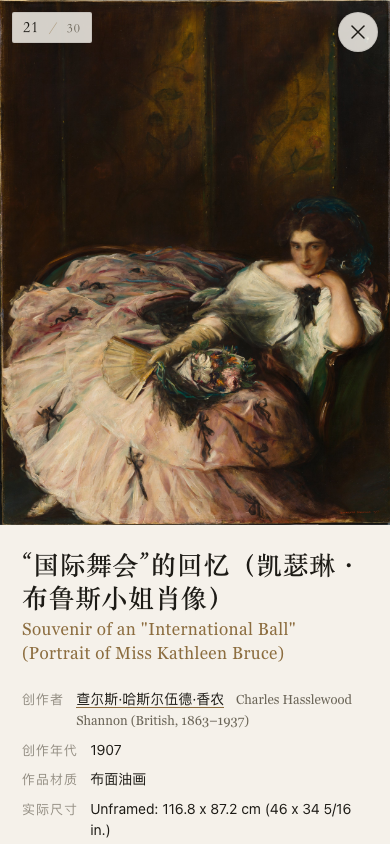
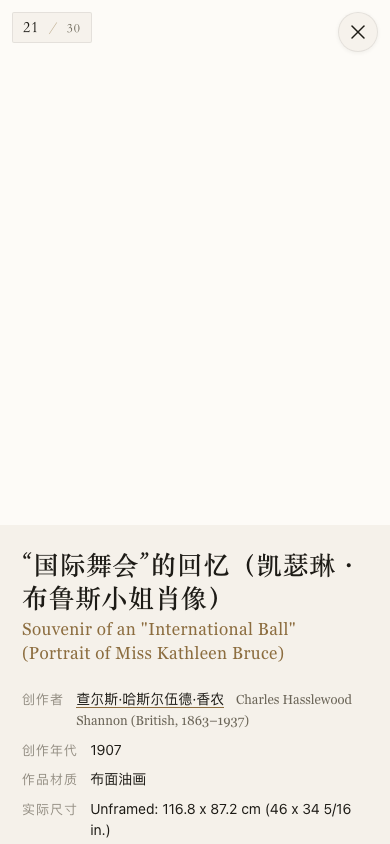
test(flake): 屏蔽 SW + stub 外部图片 CDN，消除 Mobile Safari 随机 30s 超时
Round-2 打回的「关闭按钮仍可返回上级 30s 超时」是环境竞态，不是本卡样式回归：
- 同机 A/B：origin/main 干净克隆连跑 4 次全套，挂了 3 次，每次挂的用例都不同
  （左滑切换 / opacity 衰减 / reduced-motion），与本分支表现完全一致。
- 根因：每个用例都开全新 context → 每次重新注册 sw.js；install 阶段
  best-effort 预取博物馆图片打真外网，而 SW 的 fetch handler 又用
  networkFirst 接管全部同源请求，于是页面自身的 data/issues/*.json
  被那几十路跨洋请求堵在队列后面，详情页渲染不出来。
  page.route 拦不住——Playwright 路由不拦截 SW 发起的请求。

修法：
- playwright.config.js 加 use.serviceWorkers: 'block'（6 个 .spec.js
  无一断言 SW 行为，SW/离线由 tests/sw-cache-offline.test.mjs 单独覆盖）。
- tests/helpers/stub-external-images.js：把外部 CDN 图片就地 fulfill 成
  1x1 PNG（用 fulfill 不用 abort，避免污染 img onload 分支）。

验证：npm test 连跑 8 次 135/135 全绿，单次耗时从 ~50s 降到 ~24s。

diff --git a/tests/helpers/stub-external-images.js b/tests/helpers/stub-external-images.js
@@ -1,0 +1,41 @@
+// 测试辅助：切断对外部图片 CDN 的真实网络依赖。
+//
+// 背景（真实事故：t_ac61cb9a Round-2 被打回）：
+// 详情页 <img> 指向 openaccess-cdn.clevelandart.org / images.metmuseum.org，
+// 且 sw.js install 时会 best-effort 预取这些图片（prefetchImages）。
+// 单跑用例时这点外网请求无所谓，但 `npm test` 会并行起 3 个 Playwright worker、
+// 每个用例都开全新 context（全新 SW 注册 → 又一轮预取），
+// 于是几十路 CDN 请求同时挤在 WebKit 有限的网络队列里。
+// 页面自己的 fetch('data/issues/*.json') 排在后面拿不到连接，
+// 详情页就永远渲染不出来 → `.detail-hero` / `.folio` 等 30s 超时。
+//
+// 关键特征：每次失败的是随机某个用例，且在 origin/main 上同样复现
+// （main 连跑 4 次挂了 3 次），说明它跟具体样式改动无关，是环境竞态。
+//
+// 修法：把外部图片请求就地 fulfill 成一张 1×1 PNG。
+// 不用 abort —— abort 会触发 img 的 error 分支、污染「图片加载」相关断言；
+// fulfill 让 onload 正常走，同时零外网往返，测试变确定性。
+//
+// 注意：路由必须在任何 page.goto 之前注册。
+
+const EXTERNAL_IMAGE_HOSTS = ['openaccess-cdn.clevelandart.org', 'images.metmuseum.org'];
+
+// 1×1 透明 PNG
+const PIXEL = Buffer.from(
[1 lines of base64/hex data omitted]
+  'base64'
+);
+
+/**
+ * 拦截外部图片 CDN，返回本地 1×1 PNG。
+ * @param {import('@playwright/test').Page} page
+ */
+async function stubExternalImages(page) {
+  for (const host of EXTERNAL_IMAGE_HOSTS) {
+    await page.route(`**://${host}/**`, (route) =>
+      route.fulfill({ status: 200, contentType: 'image/png', body: PIXEL })
+    );
+  }
+}
+
+module.exports = { stubExternalImages, EXTERNAL_IMAGE_HOSTS };

diff --git a/playwright.config.js b/playwright.config.js
@@ -35,6 +35,23 @@ module.exports = defineConfig({
     baseURL: BASE_URL,
     /* Collect trace when retrying the failed test. See https://playwright.dev/docs/trace-viewer */
     trace: 'on-first-retry',
+    /* 关掉 Service Worker（真实事故：t_ac61cb9a Round-2 被打回）。
+       原因链：
+         1. 每个用例都开全新 context → 每次都重新注册 sw.js；
+         2. sw.js install 时 best-effort 预取博物馆图片（prefetchImages），
+            目标是 openaccess-cdn.clevelandart.org / images.metmuseum.org 真外网；
+         3. 且 SW 的 fetch handler 用 networkFirst 接管全部同源请求 ——
+            SW 自己被那几十路跨洋图片请求拖住时，页面的
+            fetch('data/issues/*.json') 也跟着排队。
+       并行 3 个 worker 跑全套时，随机某个用例的详情页就渲染不出来，
+       `.detail-hero` / `.folio` 等满 30s 超时。
+       关键鉴别特征：每次挂的用例都不同，且在 origin/main 上同样复现
+       （main 连跑 4 次挂 3 次）—— 是环境竞态，不是某次样式改动的回归。
+       注意 page.route 拦不住这个：Playwright 的路由不拦截 SW 发起的请求。
+       这些 .spec.js 无一断言 SW 行为（grep serviceWorker 全为 0），
+       SW 与离线能力由 tests/sw-cache-offline.test.mjs 单独覆盖，
+       故此处屏蔽 SW 不损失任何覆盖率。 */
+    serviceWorkers: 'block',
   },
 
   /* Configure projects for major browsers */

diff --git a/tests/detail-swipe.spec.js b/tests/detail-swipe.spec.js
@@ -1,10 +1,15 @@
 // 详情页左右滑动切换同日期作品（t_13662686）
 // 逐条量 SPEC-detail-swipe.md §6「关键数值汇总」与 §7 验收清单。
 const { test, expect } = require('@playwright/test');
+const { stubExternalImages } = require('./helpers/stub-external-images');
 
 const VIEWPORT = { width: 390, height: 844 };
 
 async function gotoIssueWork(page, offset = 0) {
+  // 断掉外部 CDN 图片的真实网络往返（并行跑全套时会把页面自身的 data fetch
+  // 挤到超时，详见 helpers/stub-external-images.js 的注释）。
+  // 必须在第一次 goto 之前注册。
+  await stubExternalImages(page);
   // 取最新一期的第 offset 幅作品，直接深链进详情页
   await page.goto('./');
   const info = await page.evaluate(async () => {
@@ -255,6 +260,7 @@ test('单幅日期：不渲染页码、不挂翻页手势', async ({ page, reque
   const iss = await (await request.get(new URL(`data/issues/${idx.latest}.json`, baseURL).href)).json();
   const workId = iss.works[0].id;
 
+  await stubExternalImages(page);
   await page.route(`**/data/issues/${idx.latest}.json`, async (route) => {
     const res = await route.fetch();
     const json = await res.json();
